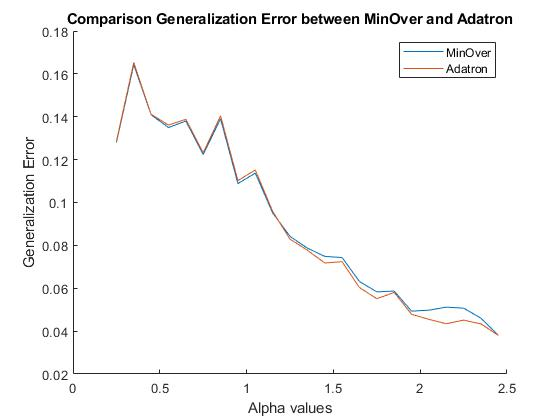
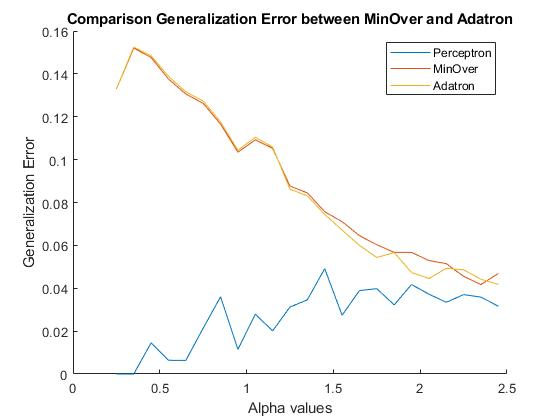
Assigment 2 and readme Updated

diff --git a/Assignment 2/GetRandomDataSet.m b/Assignment 2/GetRandomDataSet.m
@@ -10,9 +10,8 @@ function [Samples,Labels,W] = GetRandomDataSet(NDimensions,NSamples,tmax)
 
 
         W = zeros(1,NDimensions+1);
-        Samples = normrnd(0,1,NSamples,NDimensions);        
         Labels = (randi([0 1],NSamples,1)*-2)+1;
-        Samples2 = [Samples,-1*ones(length(Labels),1)];
+        Samples = [normrnd(0,1,NSamples,NDimensions),-1*ones(length(Labels),1)];     
 
         for iteration = 1:Nmax
                 found = 0;
@@ -20,10 +19,10 @@ function [Samples,Labels,W] = GetRandomDataSet(NDimensions,NSamples,tmax)
                 %Loop each samples
                 for step = 1:NSamples
 
-                    E = dot(W,Samples2(step,:))*Labels(step);
+                    E = dot(W,Samples(step,:))*Labels(step);
 
                     if E < C
-                        W = W + (Samples2(step,:)*Labels(step))/NDimensions;
+                        W = W + (Samples(step,:)*Labels(step))/NDimensions;
                     else
                         found = found +1;
                     end          

diff --git a/Assignment 2/MinOver.m b/Assignment 2/MinOver.m
@@ -2,11 +2,9 @@
 function [W,t] = MinOver(Samples,Labels,Tmax,WW)
     NSamples = size(Labels,1);
     NDimensions = size(Samples,2); 
-    
-    Samples = [Samples,-1*ones(length(Labels),1)];
-    
-    W=zeros(1,NDimensions+1);
-    Wold=ones(1,NDimensions+1);
+
+    W=zeros(1,NDimensions);
+    Wold=ones(1,NDimensions);
     t=0;
     angle=0;
     NormWW = norm(WW);

diff --git a/Assignment 2/Adatron.m b/Assignment 2/Adatron.m
@@ -3,10 +3,8 @@ function [W,t,X] = Adatron(Samples,Labels,Tmax,eta)
 
     NSamples = size(Labels,1);
     NDimensions = size(Samples,2); 
-    
-    Samples = [Samples,-1*ones(length(Labels),1)];
-    
-    W=zeros(1,NDimensions+1);
+
+    W=zeros(1,NDimensions);
     X=zeros(1,NSamples);
     t=0;
     step = 1;

diff --git a/Assignment 2/Stability.m b/Assignment 2/Stability.m
@@ -1,7 +1,6 @@
 function [K] = Stability(W,Samples,Labels)
 %Stability
 %   Calculate the stability from W
-    Samples = [Samples,-1*ones(length(Labels),1)];
     NSamples = size(Samples,1);
     K = (dot(W,Samples(1,:))*Labels(1))/norm(W);
     
